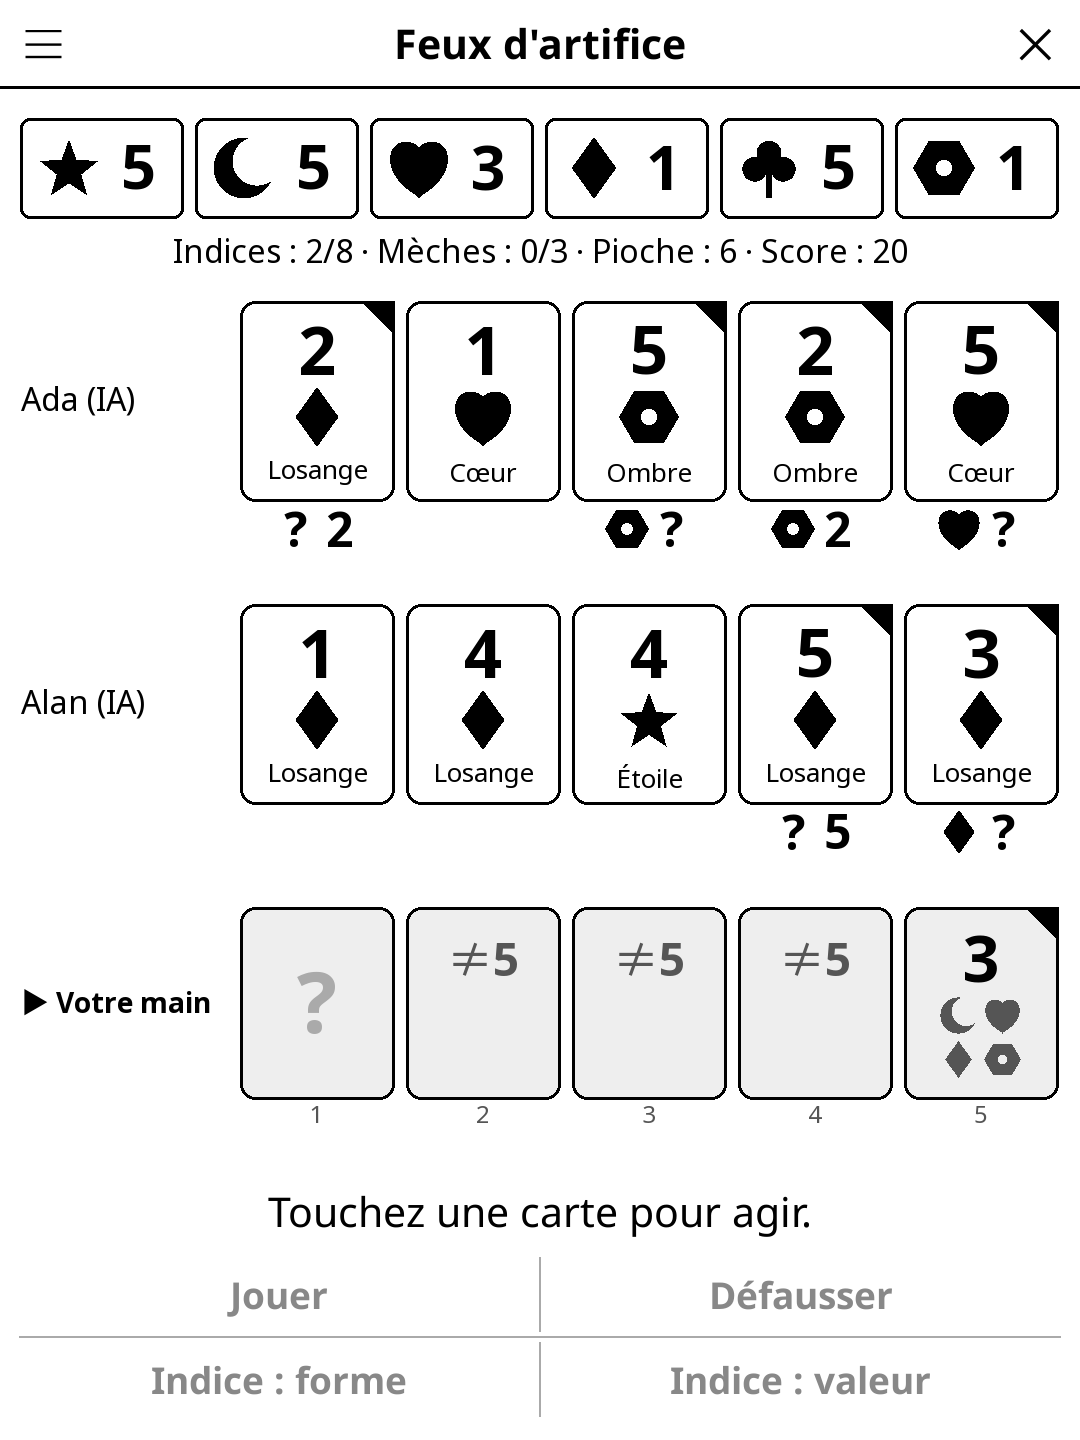
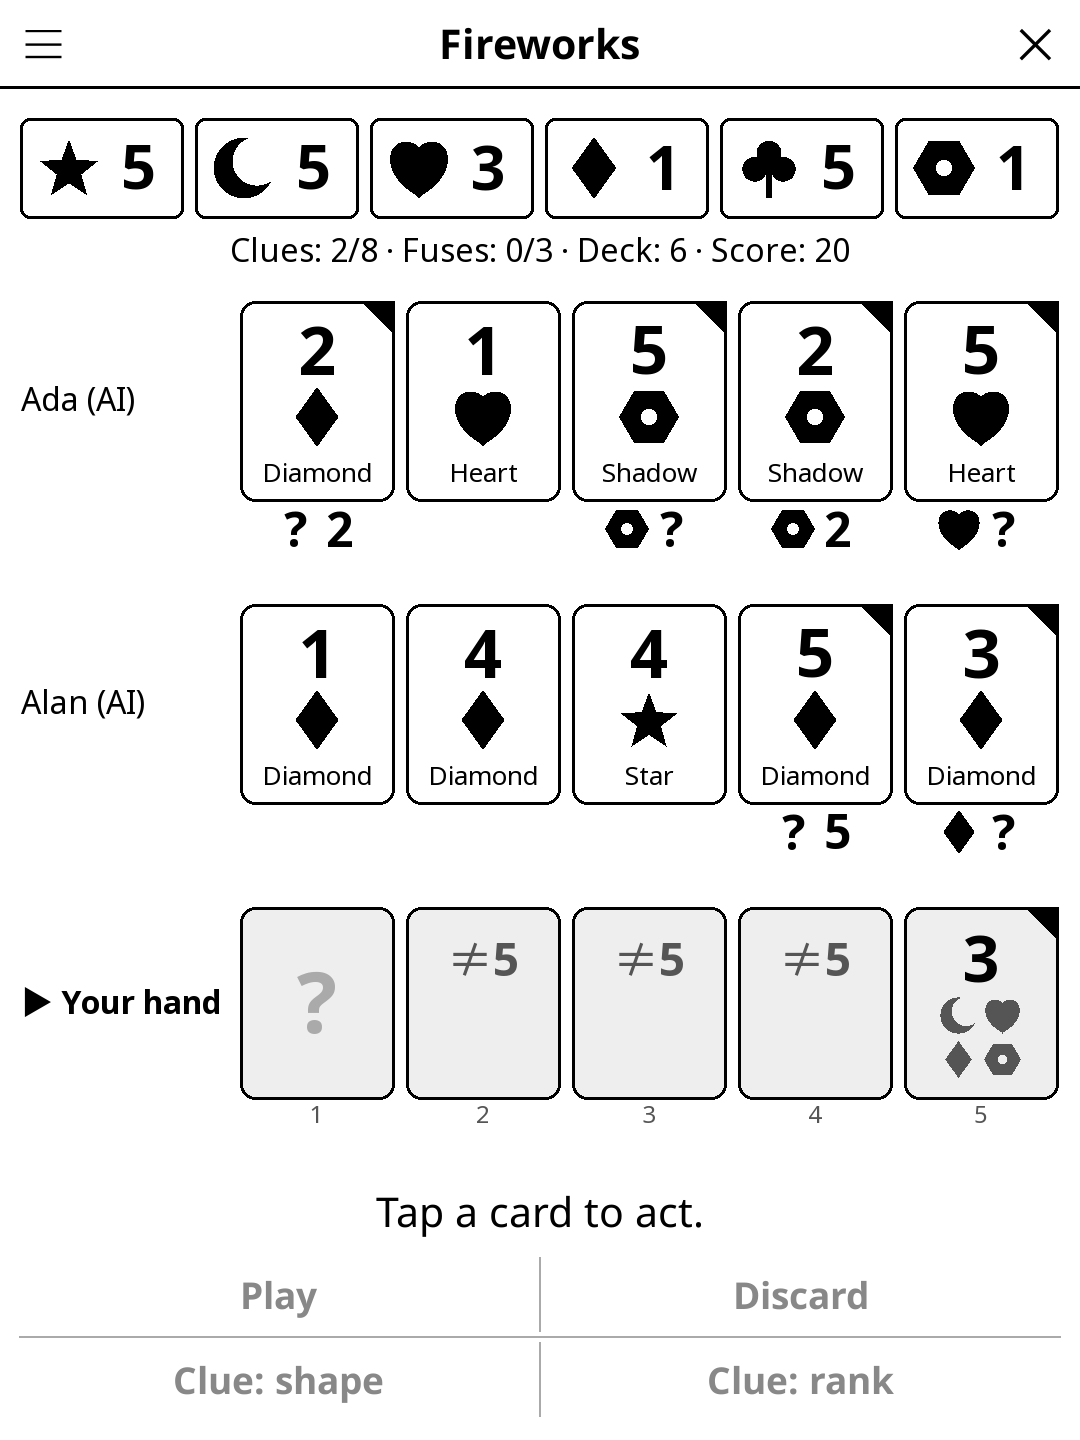
release: 1.0.10 -- Picks up game-common 1.20.0: a deferred action (timer tick, computer's
See CHANGELOG.md.

diff --git a/CHANGELOG.md b/CHANGELOG.md
@@ -2,6 +2,15 @@
 
 All notable changes to this project will be documented in this file.
 
+## [1.0.10] - 2026-11-24
+
+### Changed
+- Picks up game-common 1.20.0: a deferred action (timer tick, computer's
+  move, card flip) no longer runs once the game is closed or a new game has
+  started, and the game is saved a few seconds after a move instead of after
+  every one, and at once on close, suspend or power-off.
+- The README screenshot shows the game in English.
+
 ## [1.0.9] - 2026-11-24
 
 ### Changed
